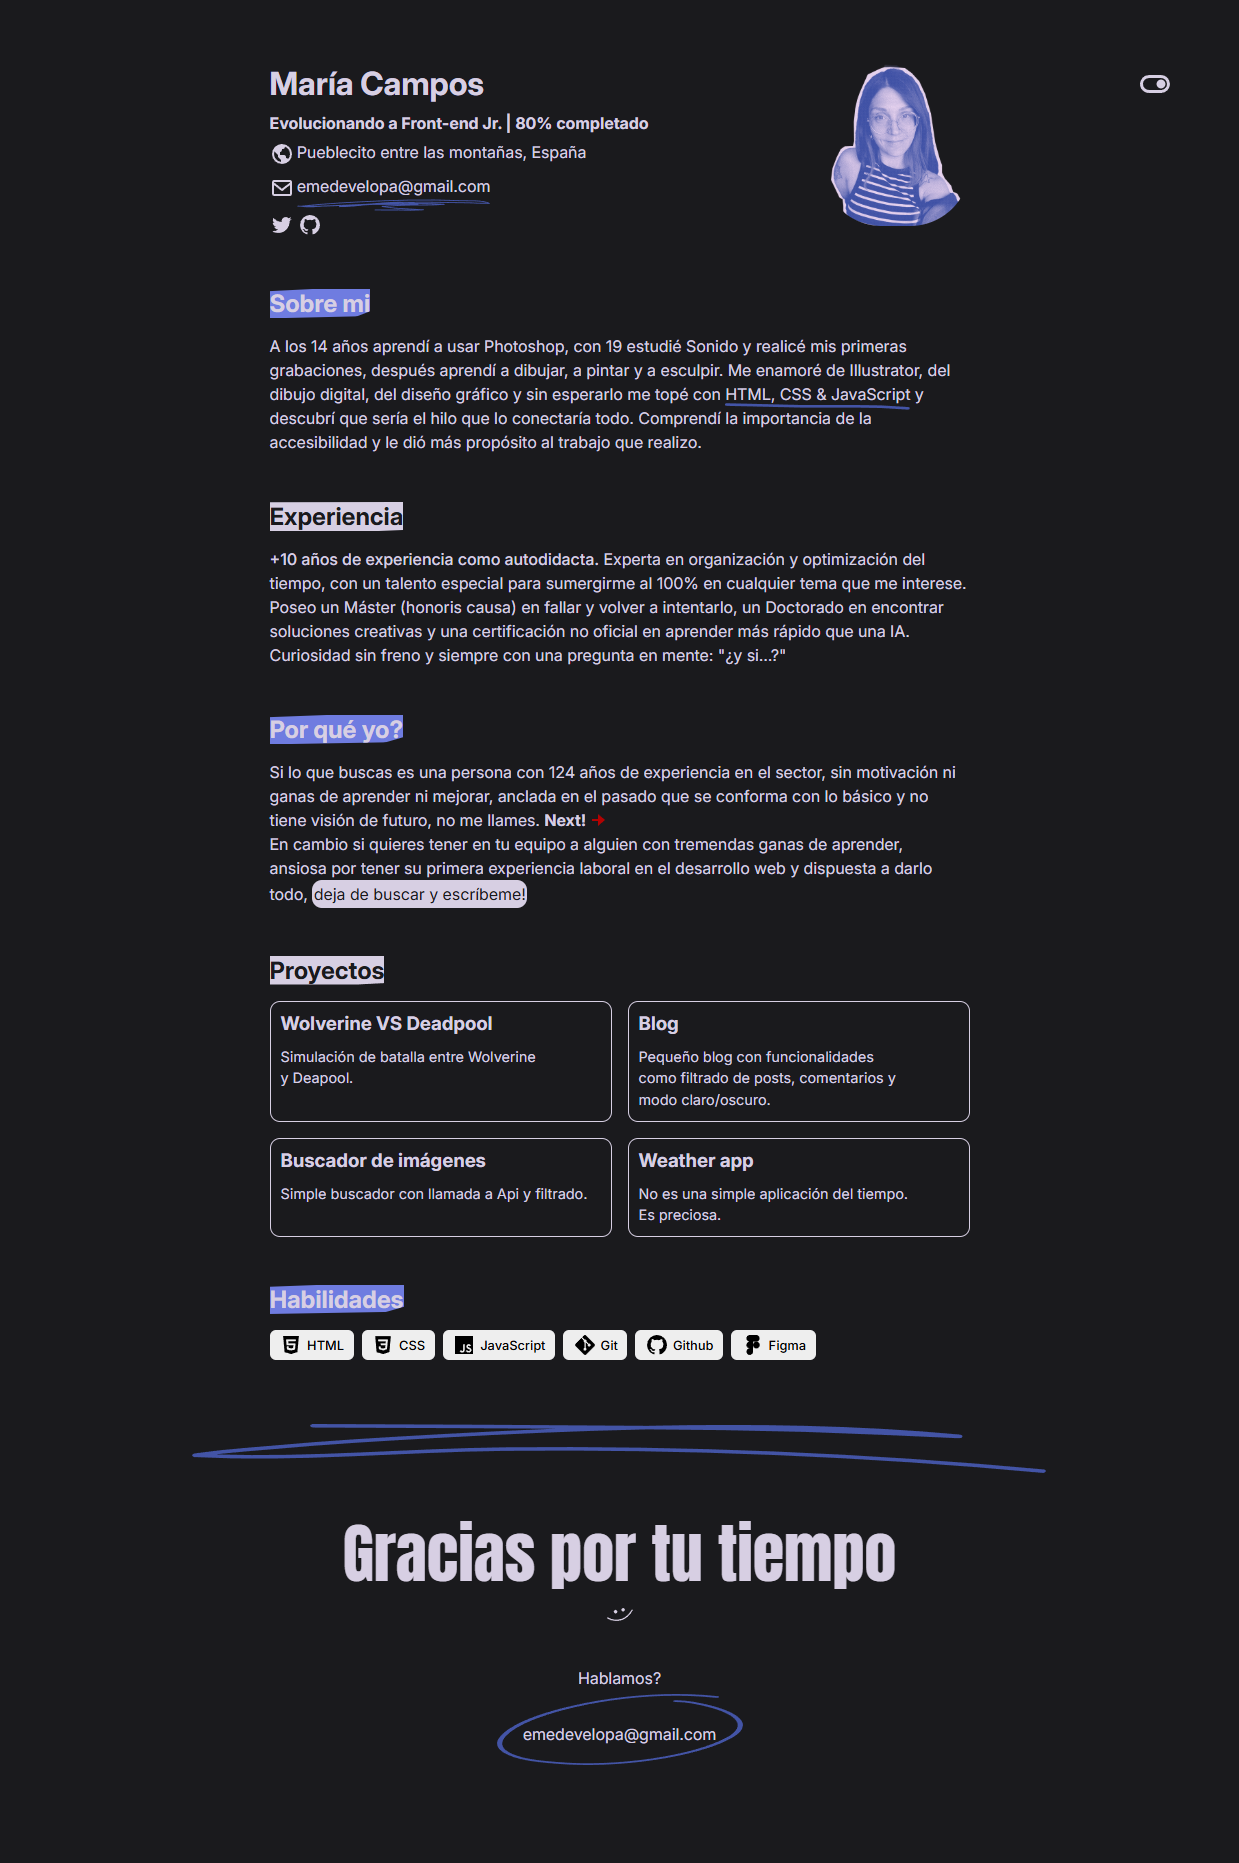
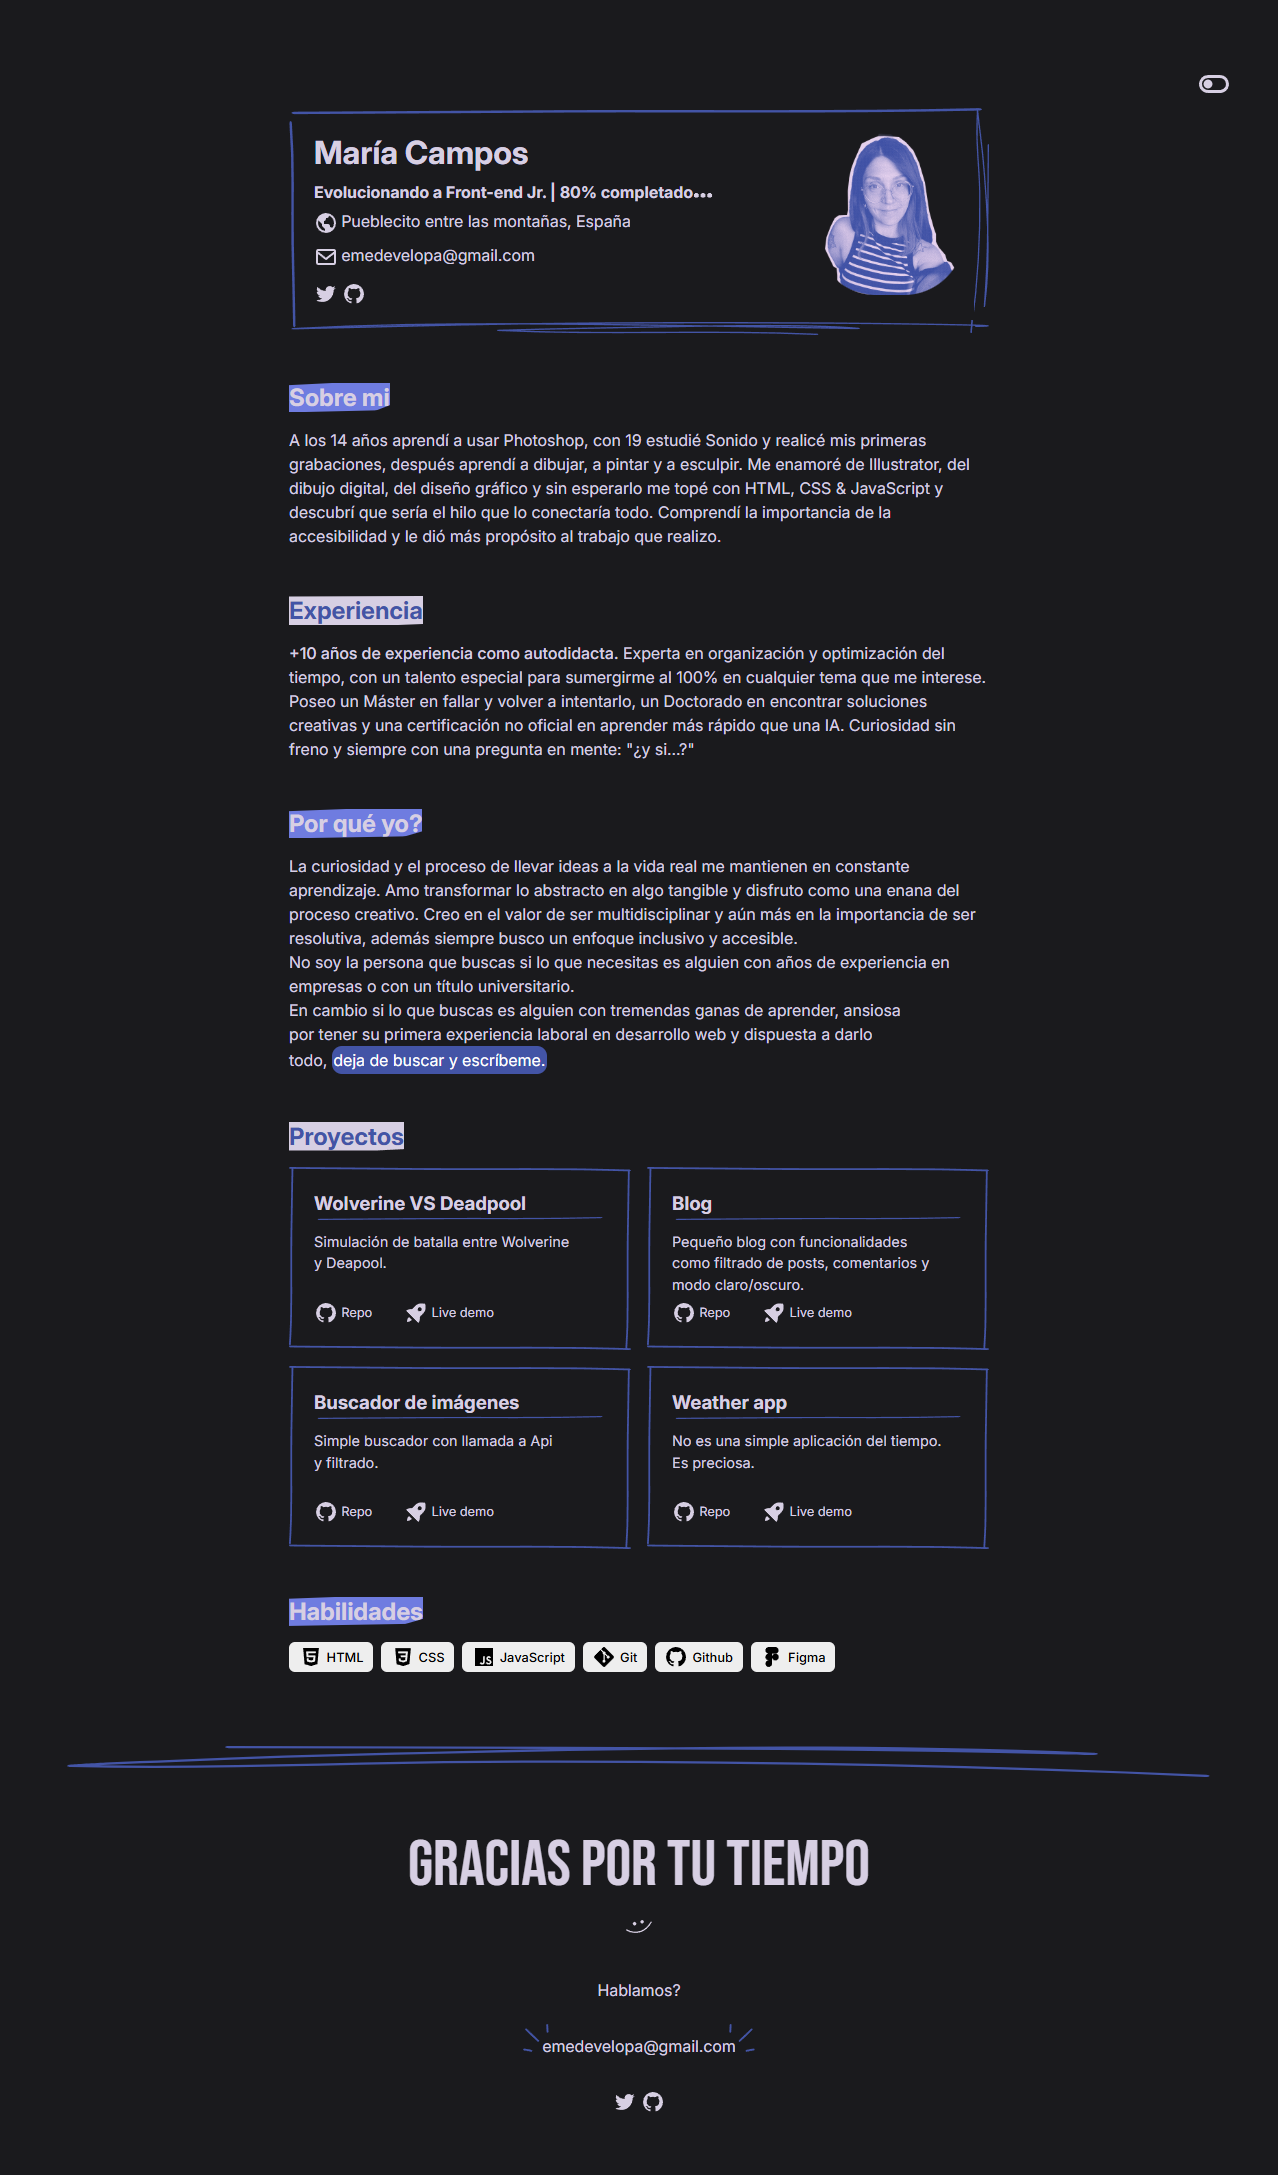
Styles

Changed region(s): [[0.1533, 0.0311, 0.8281, 0.9651], [0.9201, 0.0311, 0.9508, 0.0623], [0.7667, 0.5915, 0.7974, 0.6227]]

diff --git a/styles.css b/styles.css
@@ -411,7 +411,7 @@ body.lightMode .footer__text::after{
     content: "";
     position: absolute;
     bottom: 6px;
-    right: 115px;
+    right: 0;
     width: 100%;
     height: 28px; 
     background-image: url('Assets/spark2.svg'); 
@@ -423,7 +423,7 @@ body.lightMode .footer__text::after{
     content: "";
     position: absolute;
     bottom: 6px;
-    left: 115px;
+    left: 0;
     width: 100%;
     height: 28px; 
     background-image: url('Assets/spark2.svg'); 
